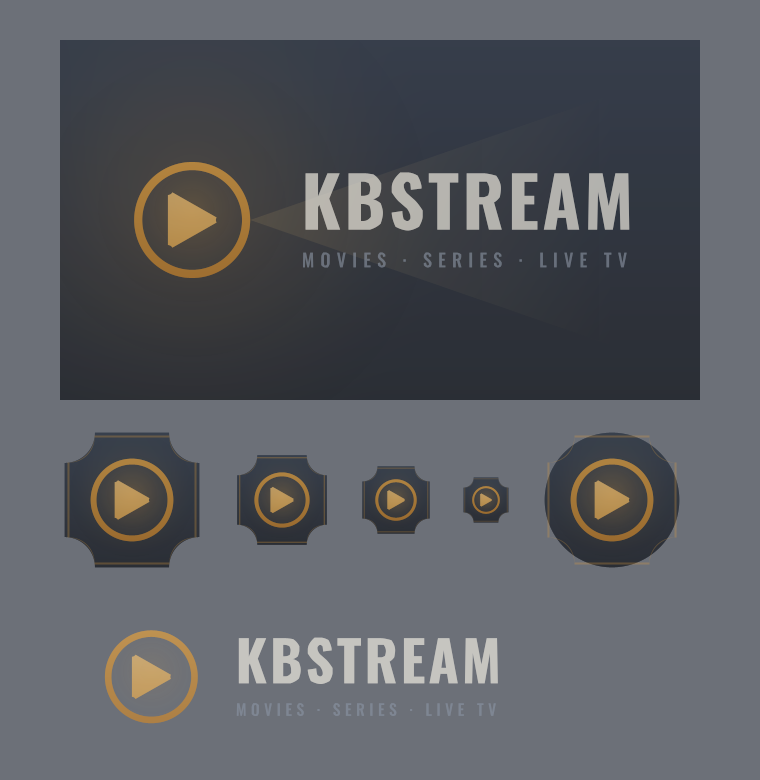
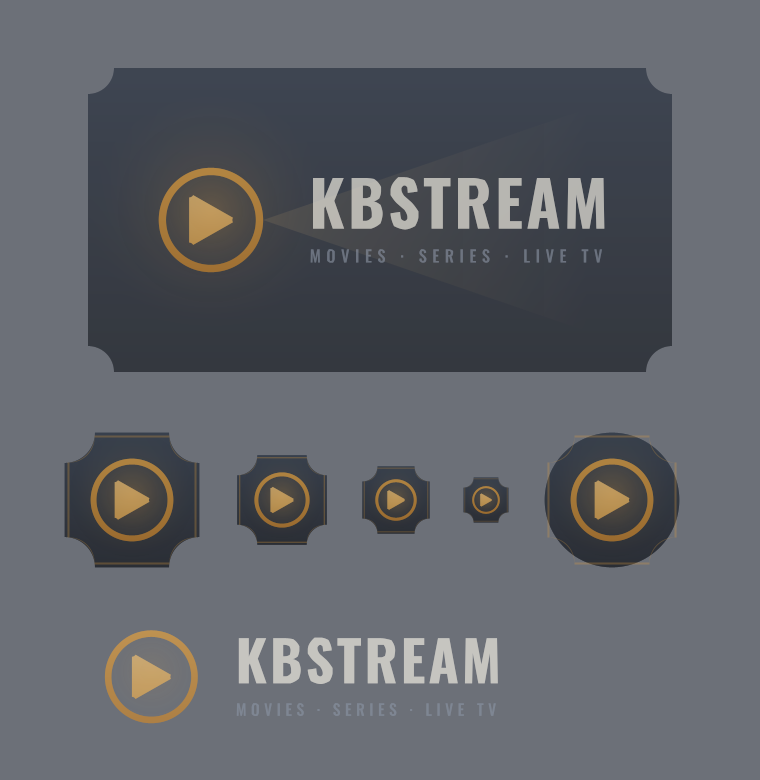
Update 9 files\n\nCo-authored-by: Freebuff Agent <agent@mail.freebuff.app>

Changed region(s): [[0.0605, 0.0308, 0.9382, 0.5231], [0.3934, 0.2154, 0.8474, 0.3385], [0.1513, 0.1846, 0.3632, 0.3692]]

diff --git a/scripts/render_brand_assets.py b/scripts/render_brand_assets.py
@@ -81,6 +81,12 @@ TEXT_LO = rgb("8891A0")
 # paints: "solid" | "lin" (p0, p1, c0, c1) | "rad" (centre, r, colour, a, gamma)
 # --------------------------------------------------------------------------- #
 
+def with_alpha(c, a):
+    """The same colour at a fraction of its alpha. The plate is drawn at full
+    strength for the opaque outputs and faded for the translucent banner."""
+    return (c[0], c[1], c[2], c[3] * a)
+
+
 def solid(c):
     return ("solid", c)
 
@@ -727,49 +733,88 @@ PLATE_MARK_GAP = 26.0   # mark across to the wordmark
 PLATE_HALO_R = 132.0
 PLATE_BEAM_H = 78.0     # half-height of the light beam at the plate's right edge
 
+# The launcher banner's safe area, and why it needs one. A TV launcher does not
+# draw the banner bare: it puts it inside its own card, with rounded corners,
+# and scales that card up while the tile holds focus. Artwork running flush to
+# the edge of the 320x180 therefore has its corners cut off by that rounding,
+# and reads as oversized beside the launchers' own banners, which are
+# transparent lockups floating in the middle of the slot. So the plate is
+# pulled in from the edge (the margin stays transparent, so any rounding crops
+# empty space instead of artwork), faded so the wallpaper reads through it, and
+# its lockup drops a notch.
+PLATE_INSET = 14.0
+PLATE_RADIUS = 13.0
+PLATE_ALPHA = 0.78
+PLATE_LOCK = 0.90
 
-def plate_layers(w, h, k=1.0):
+
+def plate_layers(w, h, k=1.0, inset=0.0, alpha=1.0, lock=1.0):
     """The KBStream plate: background, mark-as-light-source, lockup.
 
     The lockup is centred in (w, h) at design scale `k`, so a wider plate gets
     more breathing room around the same lockup rather than a stretched one.
     `k = 1.0` at 320x180 is the TV banner, bit for bit.
+
+    `inset` pulls the plate in from the canvas edge and leaves that margin
+    transparent, `alpha` fades the plate so the wallpaper reads through it, and
+    `lock` scales the lockup inside it. All three default to the store plates'
+    full-bleed, opaque, full-size form -- see PLATE_INSET for why the launcher
+    banner does not use those defaults.
     """
-    mark_d = MARK_D * k
-    word = wordmark(BOLD, "KBSTREAM", cap=PLATE_WORD_CAP * k, tracking_em=0.05)
+    scale = k * lock
+    mark_d = MARK_D * scale
+    word = wordmark(BOLD, "KBSTREAM", cap=PLATE_WORD_CAP * scale, tracking_em=0.05)
     word_w = bbox(word)[2] - bbox(word)[0]
-    tag = fitted_line(MEDIUM, TAGLINE, cap=PLATE_TAG_CAP * k, target_w=word_w)
-    gap = PLATE_MARK_GAP * k
+    tag = fitted_line(MEDIUM, TAGLINE, cap=PLATE_TAG_CAP * scale, target_w=word_w)
+    gap = PLATE_MARK_GAP * scale
     total = mark_d + gap + word_w
     x0 = (w - total) / 2.0
     mark_x = x0
     mark_y = (h - mark_d) / 2.0
     text_x = x0 + mark_d + gap
-    block_top = (h - (PLATE_WORD_CAP + PLATE_LEAD + PLATE_TAG_CAP) * k) / 2.0
+    block_top = (h - (PLATE_WORD_CAP + PLATE_LEAD + PLATE_TAG_CAP) * scale) / 2.0
 
     # The mark is the plate's light source: a halo sits behind it and a wide,
     # very faint beam opens out of the play glyph across the lockup. Both are
     # low enough that they read as depth rather than as decoration -- a plain
     # navy plate with a logo dropped on it is what looks cheap.
     tip_x, tip_y = mark_x + mark_d, h / 2.0
-    beam_h = PLATE_BEAM_H * k
-    halo_r = PLATE_HALO_R * k
+    beam_h = PLATE_BEAM_H * scale
+    halo_r = PLATE_HALO_R * scale
+    # The plate's own edge: the halo and the beam stop here rather than at the
+    # canvas, because with the margin transparent the halo would otherwise
+    # strand a warm glow out past the card.
+    ix = inset * k
+    edge = w - ix
+    if inset > 0:
+        glow_x = tip_x - mark_d / 2.0
+        halo_r = min(halo_r, glow_x - ix, edge - glow_x, (h - 2 * ix) / 2.0)
     layers = [
-        ([rect(0, 0, w, h)], lin((0, 0), (0, h), BANNER_TOP, BANNER_BOT)),
-        ([[(tip_x, tip_y), (w, tip_y - beam_h), (w, tip_y + beam_h)]],
-         lin((tip_x, tip_y), (w * 0.86, tip_y), rgb("F7CE86", 0.11), rgb("F7CE86", 0.0))),
+        ([rect(ix, ix, w - 2 * ix, h - 2 * ix, PLATE_RADIUS * k if inset > 0 else 0.0)],
+         lin((0.0, ix), (0.0, h - ix),
+             with_alpha(BANNER_TOP, alpha), with_alpha(BANNER_BOT, alpha))),
+        ([[(tip_x, tip_y), (edge, tip_y - beam_h), (edge, tip_y + beam_h)]],
+         lin((tip_x, tip_y), (edge * 0.86, tip_y), rgb("F7CE86", 0.11), rgb("F7CE86", 0.0))),
         ([circle(tip_x - mark_d / 2.0, tip_y, halo_r)],
-         rad((tip_x - mark_d / 2.0, tip_y - 6.0 * k), halo_r, BRASS, 0.16)),
+         rad((tip_x - mark_d / 2.0, tip_y - 6.0 * scale), halo_r, BRASS, 0.16)),
     ]
     layers += mark_layers(mark_d, mark_x, mark_y)
     layers.append((move(word, text_x, block_top), solid(TEXT_HI)))
-    layers.append((move(tag, text_x, block_top + (PLATE_WORD_CAP + PLATE_LEAD) * k),
+    layers.append((move(tag, text_x, block_top + (PLATE_WORD_CAP + PLATE_LEAD) * scale),
                    solid(rgb("8891A0", 0.92))))
     return layers
 
 
-def banner_layers():
-    return plate_layers(BANNER_W, BANNER_H)
+# The launcher banner in its two forms. The translucent one is the default,
+# and inset/alpha/lock are what let it survive the launcher's own card.
+BANNER_TRANSLUCENT = dict(inset=PLATE_INSET, alpha=PLATE_ALPHA, lock=PLATE_LOCK)
+BANNER_SOLID = dict(inset=PLATE_INSET, alpha=1.0, lock=PLATE_LOCK)
+
+
+def banner_layers(solid=False):
+    return plate_layers(
+        BANNER_W, BANNER_H, **(BANNER_SOLID if solid else BANNER_TRANSLUCENT)
+    )
 
 
 # --------------------------------------------------------------------------- #
@@ -819,14 +864,30 @@ def emit_banner():
     # 2x (xhdpi) for a TV launcher's overscan, so the layers have to be scaled
     # with it -- rendering the design into a 640x360 buffer would paint only the
     # top-left quarter.
-    layers = banner_layers()
-    w, h = int(BANNER_W * 2), int(BANNER_H * 2)
-    buf = render(scale_layers(layers, w / BANNER_W), w, h)
-    written = [write(os.path.join(RES, "drawable-xhdpi", "tv_banner.png"),
-                     png_bytes(buf, w, h, alpha=False))]
-    written.append(write(os.path.join(BRAND, "kbstream-banner.png"), png_bytes(buf, w, h, alpha=False)))
-    written.append(write(os.path.join(BRAND, "kbstream-banner.svg"),
-                         svg_doc(layers, BANNER_W, BANNER_H, "KBStream TV banner")))
+    #
+    # Both forms are emitted as real drawables, so preferring the solid card is
+    # a one-line change to android:banner rather than a regeneration. The
+    # translucent one is the default: it is what a launcher's own card wants,
+    # and it is the one whose edges cannot be clipped.
+    written = []
+    for name, solid in (("tv_banner", False), ("tv_banner_plate", True)):
+        layers = banner_layers(solid=solid)
+        w, h = int(BANNER_W * 2), int(BANNER_H * 2)
+        buf = render(scale_layers(layers, w / BANNER_W), w, h)
+        # Written with alpha even for the opaque plate: the margin around the
+        # plate has to stay genuinely transparent, and an RGB PNG has nowhere
+        # to put "nothing" -- it would come out black, which is a worse edge
+        # than the flush artwork this inset exists to avoid.
+        written.append(write(os.path.join(RES, "drawable-xhdpi", "%s.png" % name),
+                             png_bytes(buf, w, h, alpha=True)))
+        suffix = "-plate" if solid else ""
+        written.append(write(os.path.join(BRAND, "kbstream-banner%s.png" % suffix),
+                             png_bytes(buf, w, h, alpha=True)))
+        written.append(write(
+            os.path.join(BRAND, "kbstream-banner%s.svg" % suffix),
+            svg_doc(layers, BANNER_W, BANNER_H,
+                    "KBStream TV banner" + (" (solid plate)" if solid else "")),
+        ))
     return written
 
 
@@ -1011,6 +1072,7 @@ def ascii_preview(layers, w, h, cols=104):
 
 PREVIEWS = {
     "banner": lambda: (banner_layers(), int(BANNER_W), int(BANNER_H)),
+    "plate": lambda: (banner_layers(solid=True), int(BANNER_W), int(BANNER_H)),
     "promo": lambda: (plate_layers(1024.0, 500.0, 3.2), 1024, 500),
     "icon": lambda: (icon_layers(), int(TILE), int(TILE)),
     "round": lambda: (icon_layers(True), int(TILE), int(TILE)),

diff --git a/README.md b/README.md
@@ -108,8 +108,13 @@ scripts/           # TMDB id-verification probes used while curating the
                    # 1280x720 banner and a 1024x500 feature graphic, both laid
                    # out from the same plate as the TV banner) -- rasterizing
                    # them to res/ and to docs/brand/ (run it after any design
-                   # change; nothing is hand-edited). `--preview
-                   # banner|promo|icon|logo|mark|round` prints one as ASCII.
+                   # change; nothing is hand-edited). The launcher banner ships
+                   # in two forms -- translucent (what android:banner points
+                   # at, inset so a launcher's rounded, scaled-up card cannot
+                   # clip it) and @drawable/tv_banner_plate, the same lockup on
+                   # the opaque plate. `--preview
+                   # banner|plate|promo|icon|logo|mark|round` prints one as
+                   # ASCII.
 supabase_profiles.sql  # optional dashboard table for inspecting profiles
 docs/              # Supabase RLS policy reference
 ```
